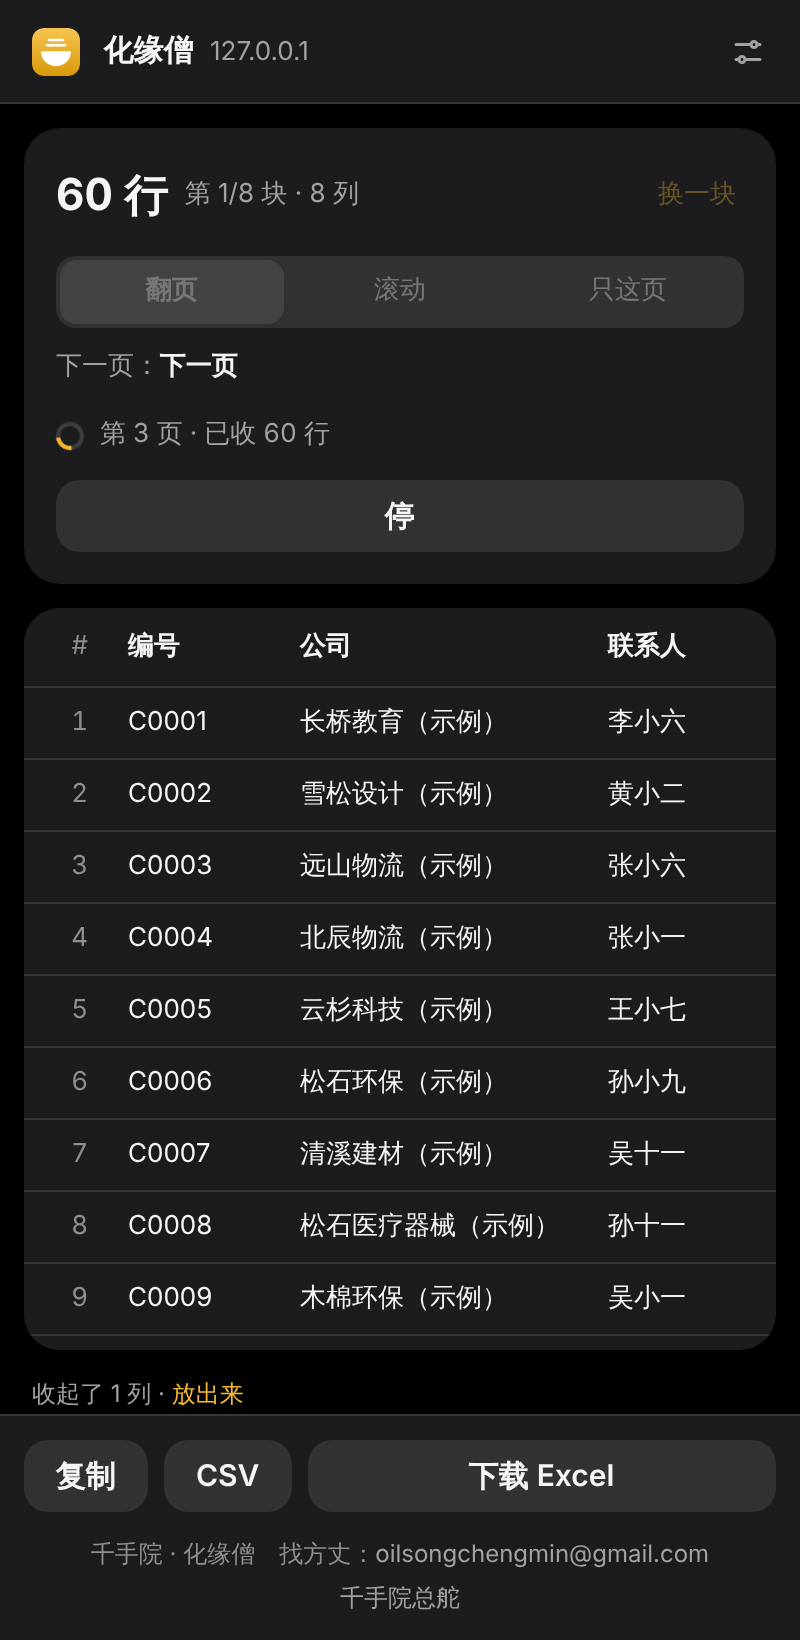
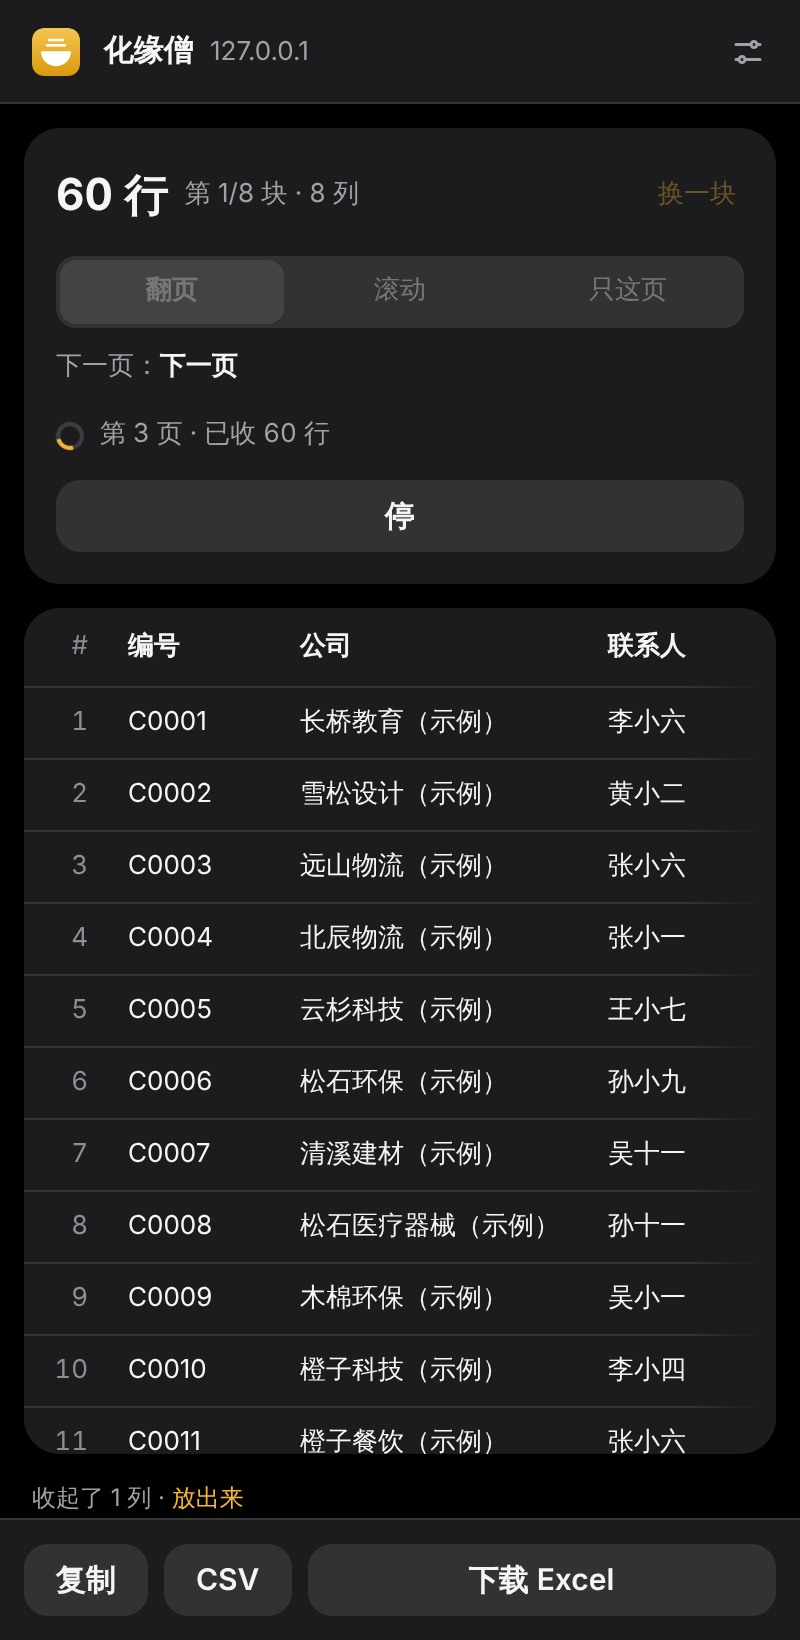
化缘僧 0.3.0：表横向放不下时右缘渐隐、格子最宽 176 用省略号；页脚收进设置浮层，侧栏底部只留下载那一排
重出侧栏截图（浅深 × 空、干活中、结果、出错，另加设置浮层 2 张），重打 dist/huayuan-0.3.0.zip，e2e 全过。

Claude-Session: https://claude.ai/code/session_01KCV9xrugD8gYybbP9zkdxi

Changed region(s): [[0.0, 0.8085, 1.0, 0.9951]]

diff --git a/huayuan/extension/panel.css b/huayuan/extension/panel.css
@@ -1,4 +1,4 @@
-/* 化缘僧侧栏：顶上名字，中间一张控制卡 + 整块表（表是主角），底下下载。宽 320 起，拉宽了控制卡横过来。 */
+/* 化缘僧侧栏：顶上名字，中间一张控制卡 + 整块表（表是主角），底下只有下载那一排。宽 320 起，拉宽了控制卡横过来。 */
 .app{display:flex;flex-direction:column;height:100vh;min-width:300px}
 
 /* 顶栏、底栏不压在内容上面（表自己滚），后面没东西可透，就不用毛玻璃：省下每屏重画的模糊，翻页滚动更快 */
@@ -16,6 +16,8 @@
 @media (prefers-color-scheme:dark){:root:not([data-theme="light"]) .pop{background:rgba(44,44,46,.86)}}
 .pop .row{display:flex;align-items:center;justify-content:space-between;gap:12px;min-height:48px;padding-right:12px;font-size:15px}
 .pop .row+.row{border-top:.5px solid var(--line)}
+/* 页脚收在设置浮层最底下，侧栏底部只留下载那一排 */
+.pop .pop-foot{flex-direction:column;align-items:flex-start;gap:4px;padding:12px 12px 12px 0;border-top:.5px solid var(--line)}
 .field{width:72px;height:32px;border:0;border-radius:var(--r-field);background:var(--fill);padding:0 8px;text-align:right;outline:none}
 .field:focus{box-shadow:0 0 0 2px var(--accent)}
 .field::-webkit-inner-spin-button{opacity:0}
@@ -56,11 +58,15 @@ main{flex:1;min-height:0;display:flex;flex-direction:column;padding:12px 12px 0;
 .alert::before{content:"!";display:grid;place-items:center;width:20px;height:20px;border-radius:50%;background:var(--warn);color:#fff;font-size:13px;font-weight:700;flex:none}
 .alert>span{flex:1;min-width:0}
 
-/* 表 */
-.grid-wrap{flex:1;min-height:120px;overflow:hidden;display:flex}
+/* 表：横向放不下就横着滚，右缘一道渐隐告诉人「右边还有」，滚到头渐隐自己去掉（panel.js 的 more-r） */
+.grid-wrap{flex:1;min-height:120px;overflow:hidden;display:flex;position:relative}
+.grid-wrap::after{content:"";position:absolute;top:0;right:var(--sb-r,0px);bottom:var(--sb-b,0px);width:48px;background:linear-gradient(90deg,transparent,var(--card) 85%);pointer-events:none;opacity:0;transition:opacity var(--t) var(--ease);z-index:4}
+.grid-wrap.more-r::after{opacity:1}
 .grid-scroll{flex:1;overflow:auto}
 .grid{border-collapse:separate;border-spacing:0;font-size:13px;min-width:100%}
-.grid th,.grid td{padding:0 12px;height:36px;text-align:left;white-space:nowrap;max-width:220px;overflow:hidden;text-overflow:ellipsis;border-bottom:.5px solid var(--line)}
+.grid th,.grid td{padding:0 12px;height:36px;text-align:left;white-space:nowrap;border-bottom:.5px solid var(--line)}
+/* 一格最宽 176，超出用省略号，不切半个字 */
+.grid td .c{display:block;max-width:176px;overflow:hidden;text-overflow:ellipsis;white-space:nowrap}
 .grid td{color:var(--fg)}
 .grid td.u{color:var(--fg-2)}
 .grid td.n{font-variant-numeric:tabular-nums}
@@ -69,7 +75,7 @@ main{flex:1;min-height:0;display:flex;flex-direction:column;padding:12px 12px 0;
 .grid th.idx,.grid td.idx{width:40px;min-width:40px;color:var(--fg-3);font-weight:400;font-variant-numeric:tabular-nums;text-align:right;padding:0 8px 0 4px;cursor:default;position:sticky;left:0;z-index:1;background:var(--card)}
 .grid th.idx{z-index:3}
 .grid th .hc{display:flex;align-items:center;gap:4px}
-.grid th .nm{cursor:text;padding:4px 8px;margin-left:-8px;border-radius:var(--r-chip);transition:background-color var(--t) var(--ease)}
+.grid th .nm{cursor:text;padding:4px 8px;margin-left:-8px;border-radius:var(--r-chip);transition:background-color var(--t) var(--ease);min-width:0;max-width:160px;overflow:hidden;text-overflow:ellipsis;white-space:nowrap}
 .grid th .nm:hover{background:var(--fill)}
 .grid th.doubt .nm{background:var(--doubt)}
 .grid td.doubt{background:var(--doubt)}
@@ -100,13 +106,12 @@ main{flex:1;min-height:0;display:flex;flex-direction:column;padding:12px 12px 0;
 .empty-s:empty{display:none}
 .empty a{font-size:13px;margin-top:4px}
 
-.bottom{flex:none;display:flex;flex-direction:column;gap:12px;padding:12px;background:var(--card);border-top:.5px solid var(--line)}
+.bottom{flex:none;padding:12px;background:var(--card);border-top:.5px solid var(--line)}
 .exp{display:flex;gap:8px}
 .exp .btn{flex:none}
 .exp .btn.main{flex:1;order:3}
-.bottom .qs-foot{justify-content:center}
 
-/* 提示条浮在下载按钮上方，不盖页脚 */
+/* 提示条浮在下载按钮上方 */
 .toast{bottom:calc(var(--foot-h, 100px) + 12px);text-align:center;max-width:calc(100% - 32px)}
 
 /* 侧栏拉宽了：控制卡左右排 */

diff --git a/huayuan/extension/panel.js b/huayuan/extension/panel.js
@@ -463,6 +463,7 @@
       th.draggable = !demo;
       th.innerHTML = '<div class="hc"><span class="nm"></span><button type="button" class="x"></button></div>';
       th.querySelector('.nm').textContent = c.name;
+      if (c.name.length > 8) th.title = c.name; // 名字太长被省略时，悬停看全名
       if (weak.has(c.key)) { th.classList.add('doubt'); th.title = T('doubtCol'); }
       const x = th.querySelector('.x'); x.innerHTML = X; x.setAttribute('aria-label', T('delCol')); x.title = T('delCol');
       if (demo) x.remove();
@@ -480,7 +481,11 @@
         const td = document.createElement('td');
         const v = sheet.value(r, c);
         if (c.type === 'src' && isUrl(v)) { const im = document.createElement('img'); im.src = v; im.loading = 'lazy'; im.alt = ''; im.referrerPolicy = 'no-referrer'; td.append(im); td.title = v; }
-        else { td.textContent = v; if (v.length > 30) td.title = v; if (isUrl(v)) td.className = 'u'; else if (isNum(v)) td.className = 'n'; }
+        else {
+          const sp = document.createElement('span'); sp.className = 'c'; sp.textContent = v; td.append(sp); // 一格最宽 176，超出省略号
+          if (v.length > 12) td.title = v;
+          if (isUrl(v)) td.className = 'u'; else if (isNum(v)) td.className = 'n';
+        }
         tr.append(td);
       }
       frag.append(tr);
@@ -489,7 +494,18 @@
     grid.replaceChildren(thead, tbody);
     S.lastCount = Math.min(sheet.rows.length, PREVIEW);
     sc.scrollTop = keepTop; sc.scrollLeft = keepLeft;
+    fade();
   }
+
+  // 右缘渐隐：横向还有没露出来的列才显示，滚到头就去掉；让开滚动条
+  function fade() {
+    const sc = $('gridScroll'), w = $('gridWrap');
+    w.style.setProperty('--sb-r', (sc.offsetWidth - sc.clientWidth) + 'px');
+    w.style.setProperty('--sb-b', (sc.offsetHeight - sc.clientHeight) + 'px');
+    w.classList.toggle('more-r', sc.scrollLeft + sc.clientWidth < sc.scrollWidth - 2);
+  }
+  $('gridScroll').addEventListener('scroll', fade, { passive: true });
+  try { new ResizeObserver(fade).observe($('gridScroll')); } catch {}
 
   // ---------- 表头：改名、删列、拖动 ----------
   const grid = $('grid');

diff --git a/huayuan/test/e2e.js b/huayuan/test/e2e.js
@@ -111,6 +111,14 @@ async function main() {
   ok(await panel.locator('#seg button[data-mode=next][aria-pressed=true]').count() === 1, '自动选了「翻页」');
   ok((await panel.locator('#hint').textContent()).includes('下一页'), '自动找到下一页按钮');
   ok(await page.locator('[data-qs-list]').count() === 1 && await page.locator('[data-qs-next]').count() === 1, '网页上高亮了名单和下一页');
+  // 表横向放不下：右缘渐隐；滚到头渐隐去掉；一格不超过 176 宽（省略号），不切半个字
+  ok(await panel.evaluate(() => document.getElementById('gridWrap').classList.contains('more-r')), '表横向放不下，右缘有渐隐');
+  ok(await panel.evaluate(() => Math.max(...[...document.querySelectorAll('#grid td .c')].map((e) => e.getBoundingClientRect().width)) <= 176.5), '格子最宽 176，超出用省略号');
+  await panel.evaluate(() => { const sc = document.getElementById('gridScroll'); sc.scrollLeft = sc.scrollWidth; });
+  await panel.waitForFunction(() => !document.getElementById('gridWrap').classList.contains('more-r'));
+  ok(true, '滚到最右，渐隐自己去掉');
+  await panel.evaluate(() => { document.getElementById('gridScroll').scrollLeft = 0; });
+  ok(await panel.locator('.bottom .qs-foot').count() === 0 && await panel.locator('#pop .qs-foot').count() === 1, '侧栏底部只留下载那一排，页脚收进设置浮层');
   await page.screenshot({ path: path.join(SHOTS, 'page-table-highlight.png') });
   await panel.screenshot({ path: path.join(SHOTS, 'panel-table-start.png') });
   await panel.emulateMedia({ colorScheme: 'dark' }); await page.emulateMedia({ colorScheme: 'dark' });

diff --git a/huayuan/extension/panel.html b/huayuan/extension/panel.html
@@ -23,6 +23,11 @@
         <label class="row"><span data-t="settingAuto"></span><span class="switch"><input type="checkbox" id="setAuto"><i></i></span></label>
         <label class="row"><span data-t="settingDelay"></span><input class="field num" type="number" id="setDelay" min="0" max="30" step="0.1" inputmode="decimal"></label>
         <label class="row"><span data-t="settingMax"></span><input class="field num" type="number" id="setMax" min="1" max="1000" step="1" inputmode="numeric"></label>
+        <div class="qs-foot pop-foot">
+          <span data-t="hyFoot"></span>
+          <span><span data-t="footMail"></span><span class="mail">oilsongchengmin@gmail.com</span></span>
+          <a href="https://qianshoulab.github.io/" target="_blank" rel="noopener" data-t="footHome"></a>
+        </div>
       </div>
     </div>
   </header>
@@ -75,11 +80,6 @@
       <button type="button" class="btn plain" id="copy" data-t="copy"></button>
       <button type="button" class="btn plain" id="csv"></button>
       <button type="button" class="btn plain" id="xlsx"></button>
-    </div>
-    <div class="qs-foot">
-      <span data-t="hyFoot"></span>
-      <span><span data-t="footMail"></span><span class="mail">oilsongchengmin@gmail.com</span></span>
-      <a href="https://qianshoulab.github.io/" target="_blank" rel="noopener" data-t="footHome"></a>
     </div>
   </footer>
 </div>

diff --git a/huayuan/bench/shots-0.3.js b/huayuan/bench/shots-0.3.js
@@ -1,5 +1,5 @@
 // 化缘僧 0.3.0 交货截图（照 _ops/设计规范.md 最后一节）：
-//   插件侧栏 400 宽 × 浅 / 深 × 空状态、干活中、结果、出错 = 8 张；介绍页 390 / 1280 × 浅 / 深 = 4 张。
+//   插件侧栏 400 宽 × 浅 / 深 × 空状态、干活中、结果、出错 = 8 张（另加设置浮层 2 张，页脚收在里面）；介绍页 390 / 1280 × 浅 / 深 = 4 张。
 // 用法：LANG=C.UTF-8 node huayuan/bench/shots-0.3.js [输出目录，默认 huayuan/bench/shots-0.3]
 const { chromium } = require('playwright');
 const http = require('http'), fs = require('fs'), path = require('path'), os = require('os');
@@ -81,6 +81,9 @@ async function main() {
     await panel.waitForFunction(() => /化完了/.test(document.getElementById('status').textContent), null, { timeout: 60000 });
     await dl; await panel.waitForTimeout(2600); // 等提示条退了再截
     await shot(panel, `panel-${scheme}-3-result`);
+    // 页脚收在设置浮层里：开浮层截一张
+    await panel.click('#gear'); await panel.waitForTimeout(300);
+    await shot(panel, `panel-${scheme}-5-settings`);
     await panel.close(); await page.close();
     await sw.evaluate(() => chrome.storage.local.set({ delay: 0.3 }));
 
